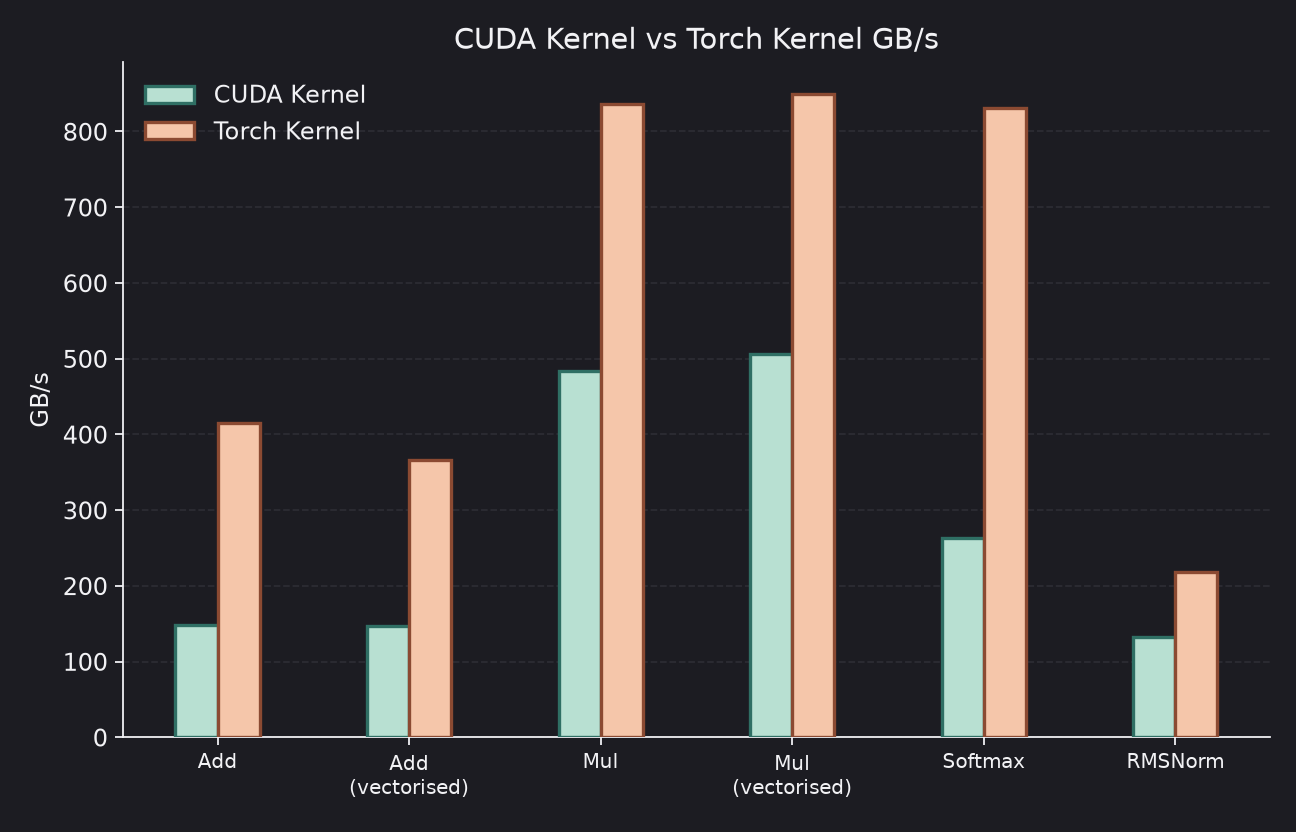
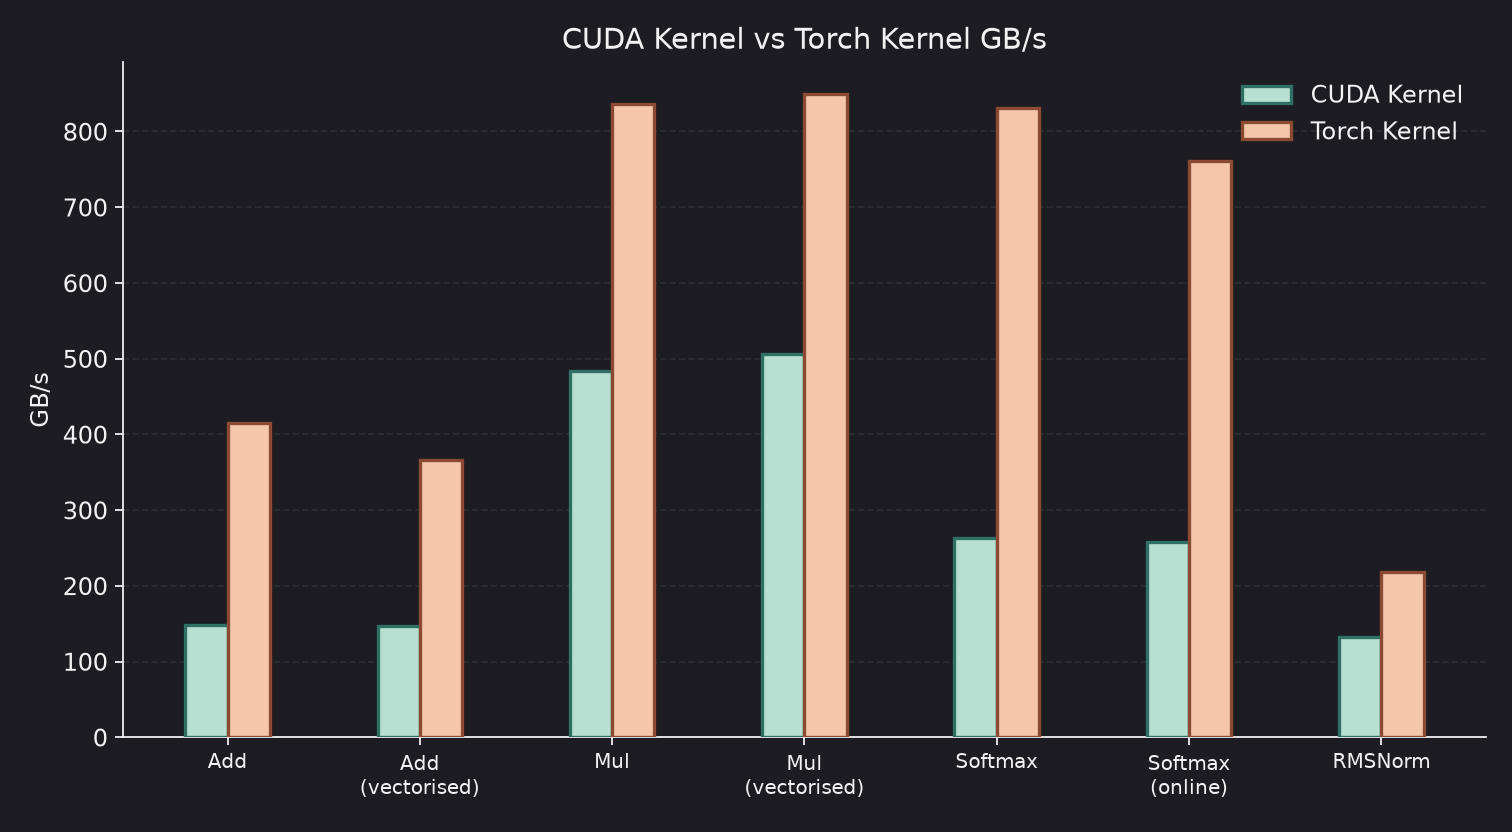
first draft and profile of online softmax

diff --git a/profiling/plot_layer0.py b/profiling/plot_layer0.py
@@ -45,6 +45,7 @@ LABELS = {
     "multi": "Mul",
     "multi_vectorize": "Mul\n(vectorised)",
     "softmax": "Softmax",
+    "softmax_online": "Softmax\n(online)",
     "rmsnorm": "RMSNorm",
 }
 
@@ -109,6 +110,8 @@ def _kernel_family(name):
         return "addition"
     if name.startswith("multi"):
         return "multi"
+    if name.startswith("softmax"):
+        return "softmax"
     return name
 
 

diff --git a/README.md b/README.md
@@ -43,6 +43,8 @@ Add, mul, softmax, and RMSNorm. These are bandwidth-bound, so throughput is GB/s
 
 Vectorised `float4` loads move four elements per thread. Layer 0 did not move (the 2.8× → 2.5× on add is within noise). Nsight Systems shows add and mul are launch-bound at the mini-model shape, so we are moving on from them for now; they will mainly benefit from kernel fusion.
 
+Online softmax (max and norm in one scan) did not move CUDA latency (0.127 ms → 0.130 ms, within noise). The 3.1× → 2.9× slowdown drop is only Torch running a bit slower in that job (0.040 ms → 0.044 ms), not a faster kernel. Next is warp shuffle, hopefully that moves things a bit more.
+
 | Kernel | Slowdown |
 | --- | ---: |
 | RMSNorm | 1.6× |
@@ -51,6 +53,7 @@ Vectorised `float4` loads move four elements per thread. Layer 0 did not move (t
 | Add | 2.8× |
 | Add (vectorised) | 2.5× |
 | Softmax | 3.1× |
+| Softmax (online) | 2.9× (not faster due to optimisation)|
 
 ![Other kernel latency](figures/layer0_other_latency.png)
 

diff --git a/docker/changes.md b/docker/changes.md
@@ -30,6 +30,8 @@ v0.0.9 - Testing the transposed smem and vectorised loads.
 
 v0.0.10 - Testing vectorised loads on elementwise kernels.
 
+v0.0.11 - Testing online softmax
+
 ### CUDA Smoke Tests
 
 v0.0.1 - First smoke test for elementwise addition and multiplication.
@@ -73,6 +75,8 @@ v0.0.11 - smem transpose and vectorised loads.
 v0.0.12 - Different BK on the matmul.
 
 v0.0.13 - Elementwise vectorised loads. 
+
+v0.0.14 - Online softmax
 
 ### Profiling Layer 1
 

diff --git a/profiling/results/profiling_layer_0.md b/profiling/results/profiling_layer_0.md
@@ -238,6 +238,18 @@ Torch:    830.61 GB/s
 
 ```
 
+- Softmax Profile (online max and norm):
+
+```python
+kernel:   softmax  (64, 256, 256)
+CUDA:     0.130 ± 0.010 ms
+Torch:    0.044 ± 0.018 ms
+slowdown: 2.9x
+CUDA:     258.43 GB/s
+Torch:    760.99 GB/s
+
+```
+
 - RMSNorm Profile:
 
 ```python
